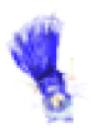
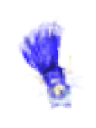
added death sprite

Changed region(s): [[0.0625, 0.0938, 0.7812, 0.9688], [0.7188, 0.4375, 0.7812, 0.5]]

diff --git a/Project5_Final/player.cpp b/Project5_Final/player.cpp
@@ -56,7 +56,8 @@ void player::DrawPlayer(int xoffset, int yoffset)
 	else { //idle/up/down
 		fy = 0;
 	}
-	al_draw_bitmap_region(reimu, fx, fy, frameWidth, frameHeight, x - xoffset, y - yoffset, 0);
+	if (lives != 0)
+		al_draw_bitmap_region(reimu, fx, fy, frameWidth, frameHeight, x - xoffset, y - yoffset, 0);
 
 
 	// other properties
@@ -145,6 +146,7 @@ void player::DrawPlayer(int xoffset, int yoffset)
 		sly = 0;
 		srx = 128;
 		sry = 0;
+		al_draw_bitmap(dead, x, y, 0);
 	}
 	al_draw_bitmap_region(giantseal, slx, sly, 59, 128, 100, 650, 0);
 	al_draw_bitmap_region(giantseal, srx, sry, 59, 128, 625, 650, 0);

diff --git a/Project5_Final/enemy.cpp b/Project5_Final/enemy.cpp
@@ -23,7 +23,6 @@ enemy::enemy()
 	frameWidth = 96;
 	frameHeight = 128;
 	animationColumns = 4;
-	animationDirection = 2;
 
 }
 enemy::~enemy()
@@ -36,7 +35,7 @@ void enemy::drawEnemy()
 {
 	if (live)
 	{
-		int fx = 0;
+		int fx = curFrame * frameWidth;
 		int fy = 0;
 
 		al_draw_bitmap_region(cirno, fx, fy, frameWidth, frameHeight, x, y, 0);
@@ -69,7 +68,7 @@ void enemy::updateEnemy()
 	
 	if (++frameCount > frameDelay) {
 		frameCount = 0;
-		if (++curFrame > 4)
+		if (++curFrame > 3)
 			curFrame = 0;
 	}
 

diff --git a/Project5_Final/enemy.h b/Project5_Final/enemy.h
@@ -33,7 +33,6 @@ private:
     int frameHeight;
     int animationColumns;
     int animationRows;
-    int animationDirection;
 
 
     bool collided;
